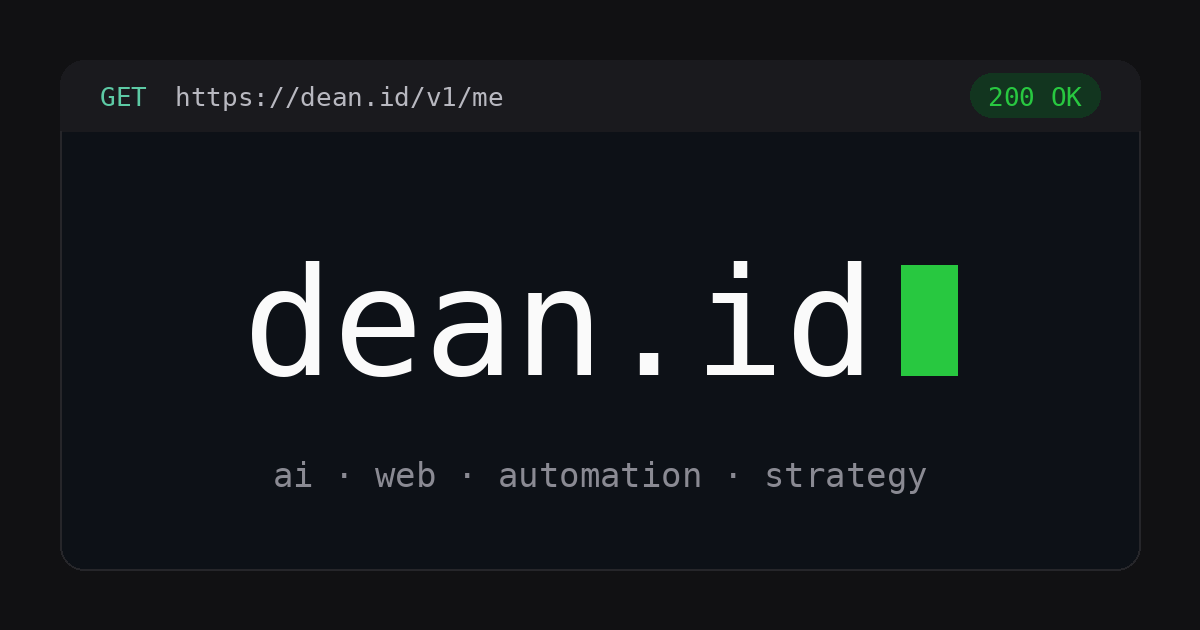
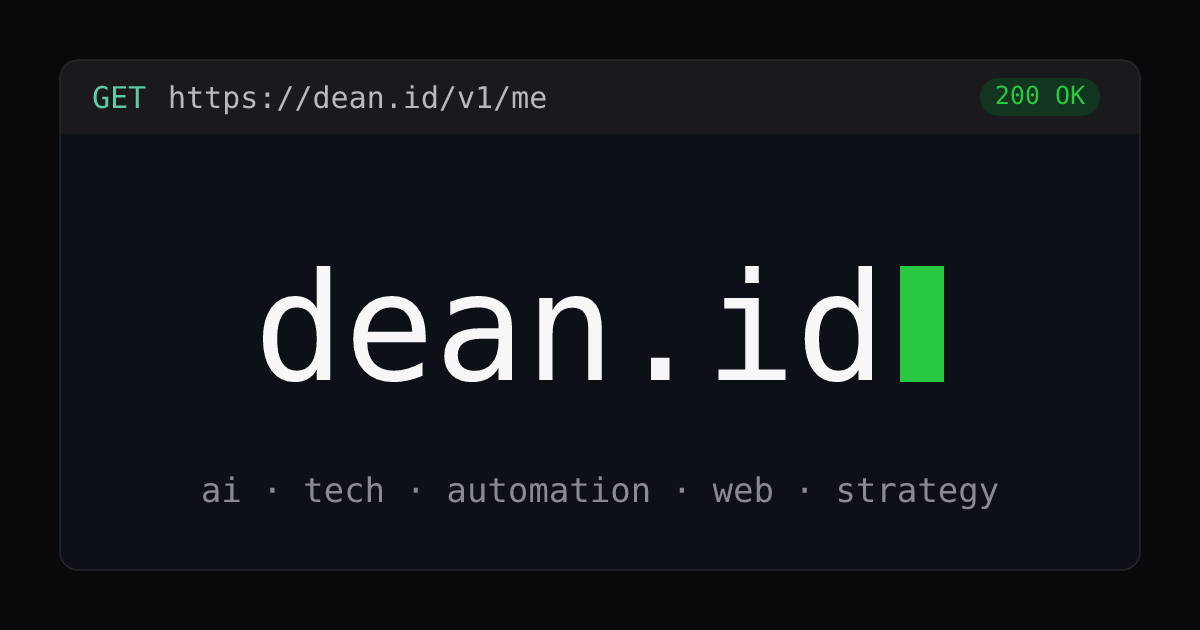
updates

diff --git a/index.js b/index.js
@@ -2,7 +2,7 @@ const ME = {
   name: "Dean Benson",
   status: "online",
   location: "North Yorkshire, UK",
-  stack: ["ai", "web", "automation", "strategy"],
+  stack: ["ai", "tech", "automation", "web", "strategy"],
   currently: "helping businesses do more with less",
   contact: "[email redacted]",
   built_by: "dean.id",
@@ -37,31 +37,31 @@ const HOME = `<!doctype html>
 <meta charset="utf-8">
 <meta name="viewport" content="width=device-width, initial-scale=1">
 <title>dean.id · Dean Benson</title>
-<meta name="description" content="ai, web, automation, strategy. North Yorkshire, UK.">
+<meta name="description" content="ai, tech, automation, web, strategy. North Yorkshire, UK.">
 <meta name="theme-color" content="#111113">
 <link rel="canonical" href="https://dean.id/">
 <meta property="og:title" content="dean.id · Dean Benson">
-<meta property="og:description" content="ai, web, automation, strategy. North Yorkshire, UK. It's a real API: curl dean.id/v1/me">
+<meta property="og:description" content="ai, tech, automation, web, strategy. North Yorkshire, UK. It's a real API: curl dean.id/v1/me">
 <meta property="og:url" content="https://dean.id/">
 <meta property="og:type" content="website">
 <meta property="og:site_name" content="dean.id">
 <meta property="og:image" content="https://dean.id/og.png">
 <meta property="og:image:width" content="1200">
 <meta property="og:image:height" content="630">
-<meta property="og:image:alt" content="dean.id, with a green terminal cursor. ai, web, automation, strategy.">
+<meta property="og:image:alt" content="dean.id, with a green terminal cursor. ai, tech, automation, web, strategy.">
 <meta name="twitter:card" content="summary_large_image">
 <meta name="twitter:image" content="https://dean.id/og.png">
 <meta name="twitter:title" content="dean.id · Dean Benson">
-<meta name="twitter:description" content="ai, web, automation, strategy. It's a real API: curl dean.id/v1/me">
+<meta name="twitter:description" content="ai, tech, automation, web, strategy. It's a real API: curl dean.id/v1/me">
 <script type="application/ld+json">
 {
   "@context": "https://schema.org",
   "@type": "Person",
   "name": "Dean Benson",
   "url": "https://dean.id",
-  "jobTitle": "AI, web, automation & strategy",
+  "jobTitle": "AI, tech, automation, web & strategy",
   "address": { "@type": "PostalAddress", "addressRegion": "North Yorkshire", "addressCountry": "GB" },
-  "knowsAbout": ["AI", "automation", "web development", "business strategy"],
+  "knowsAbout": ["AI", "automation", "web development", "technology", "business strategy"],
   "mainEntityOfPage": "https://dean.id/v1/me"
 }
 </script>
@@ -194,7 +194,7 @@ const HOME = `<!doctype html>
 </style>
 </head>
 <body>
-  <h1 class="sr">dean.id, Dean Benson: ai, web, automation, strategy</h1>
+  <h1 class="sr">dean.id, Dean Benson: ai, tech, automation, web, strategy</h1>
   <main style="display: contents;">
   <div class="win" role="img" aria-label="Dean Benson, North Yorkshire UK. Helps businesses grow with websites, systems, automation and AI. Contact [email redacted]. Styled as an API response; a human-readable toggle follows.">
     <div class="bar">
@@ -216,7 +216,7 @@ const HOME = `<!doctype html>
     '  <span class="k">"name"</span>: <span class="s">"Dean Benson"</span>,',
     '  <span class="k">"status"</span>: <span class="g">"online"</span>,',
     '  <span class="k">"location"</span>: <span class="s">"North Yorkshire, UK"</span>,',
-    '  <span class="k">"stack"</span>: [<span class="s">"ai"</span>, <span class="s">"web"</span>, <span class="s">"automation"</span>, <span class="s">"strategy"</span>],',
+    '  <span class="k">"stack"</span>: [<span class="s">"ai"</span>, <span class="s">"tech"</span>, <span class="s">"automation"</span>, <span class="s">"web"</span>, <span class="s">"strategy"</span>],',
     '  <span class="k">"currently"</span>: <span class="s">"helping businesses do more with less"</span>,',
     '  <span class="k">"contact"</span>: <span class="s">"<a href="mailto:[email redacted]" tabindex="-1">[email redacted]</a>"</span>',
     '<span class="p">}</span>'
@@ -490,7 +490,7 @@ export default {
       const llms = [
         "# dean.id",
         "",
-        "> The personal site of Dean Benson: AI, web, automation and strategy. Based in North Yorkshire, UK. Currently helping businesses do more with less.",
+        "> The personal site of Dean Benson: AI, tech, automation, web and strategy. Based in North Yorkshire, UK. Currently helping businesses do more with less.",
         "",
         "This entire site is served as a JSON API response, because the medium is the message.",
         "",